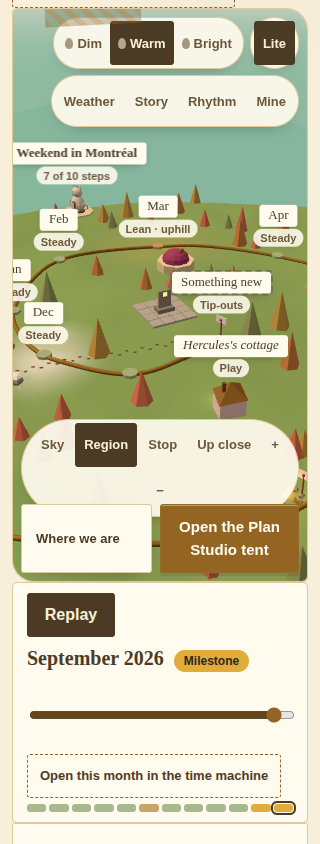
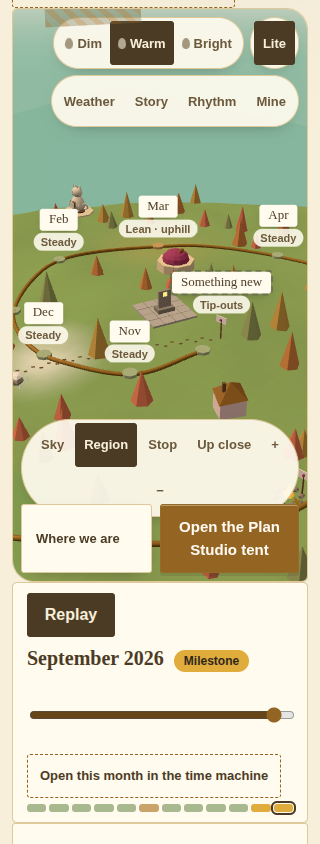
Our Path next level: worksession, AI_HANDOFF entry, and the evidence set re-captured after the light cap
Claude-Session: https://claude.ai/code/session_01US2iRvPXDm4Si5EzbuKmjG

diff --git a/docs/worksessions/2026-09-15-our-path-next-level.md b/docs/worksessions/2026-09-15-our-path-next-level.md
@@ -1,0 +1,128 @@
+# Hearth worksession — Our Path, next level (D-264)
+
+- **Status:** OPEN — local branch complete; awaiting Codex trust review (capability guard; owner-only footpaths on the household island) and Jonathan's merge
+- **Opened:** 2026-09-15 (`America/Toronto`)
+- **Owner:** Jonathan
+- **Assignee or AI:** Claude (orchestrator); Opus sub-agents built and reviewed each slice
+- **Repository:** jonathanbeaulne123-blip/dual-ai-budget-app
+- **Branch:** `claude/our-path-next-level`
+- **Baseline SHA:** `fe0cb3bb` (origin/main, #489; the island itself merged as #488, D-262)
+- **Head SHA:** recorded in the HANDOFF that ships with the bundle
+- **PR or issue:** none yet (delivered as bundle + patch)
+- **Risk:** High — a new per-feature capability flag on the ledger command (sync); owner-only Personal rows drawn on the household surface (privacy); many UI slices
+- **Decision owner:** Jonathan (product); Codex (trust review of `pathWorldVersion` and of the footpaths/bridge privacy rule)
+- **Environment impact:** none (local only; fictional habitat books for every proof and capture)
+
+## Household outcome
+
+The island Jonathan and Bianca see on the household **Our Path** tab is now sturdy on a phone and the rest of the app has come onto it. Two small figures — *us* — walk the path together and their footprints fade behind them. Opening the tent no longer rebuilds the world; it sleeps and wakes. The world rests when idle, and a per-device **Full / Lite** quality setting turns shadows and ambient motion off on modest phones.
+
+Then the app arrived: the **Kitty studio lives inside the landmarks** (pressing a bank opens its own room in the tent; a kiln stands on the island and smokes for a month after a firing; coins arc in when money is set aside and out when a cushion is used). The **campfire is a door to Together** (Jonathan's call today: Together stays its own tab); the fire blazes while a Sitdown is open, settles to embers when it closes and the month's land *sets* with a stone kerb; closed-books months are paved, stamped weeks light lanterns; the **Charter** stands as a stone square; agreed **decisions fork the path**; when both people are on the page the fire crackles brighter. The **Calendar comes as weather**: bills are clouds (big ones storms), paydays are sunrises, covered stretches are sunlit road, and forecast mist has a signpost that says why. **Planner tasks are stepping stones** with owner and backup footprints; a money stone lights only when the books confirm it. **Private footpaths** show only to their owner and **"Share with Our Home" builds a bridge plank by plank**. Every month card opens the **Time Machine**. **Hercules waits at the tent in his saved outfit** and leans toward the pawprints when he has a suggestion; **Play is his cottage**; **memory flags carry the board photos**; and **Home has a window** with the island in miniature and a door to it. The little touches: the bottle in an old cove holds the note from that trip, the island's first winter leaves a frost that never quite melts, and the walkers pause at every campfire they pass.
+
+Nothing on the island moves money. Every action is a link, a tab or the tent. The island reads only accepted household-scope facts, and nobody's words carry an amount (digits and `$` are stripped from any user text before it reaches the land).
+
+## Budget delta (5)
+
++0 to +1. No posting, confirming, reconciling or editing from the island. The island now shows more of what the books already say (bills as weather, paydays, covered stretches, money stones lit by books evidence, Fund cushion signposts) with a door to the real screen every time. `pathWorldVersion` closes the older-client drop for the island's own rows.
+
+## Engagement delta (3)
+
++3. The island is travelled rather than looked at; the couple's Sitdown, Charter, decisions, banks, calendar, tasks, memories and Hercules all live on it; it costs less battery; and it works from the keyboard and without WebGL.
+
+## Verified baseline
+
+- Facts: on `fe0cb3bb`, the island (D-262, #488) had no capability guard, disposed the WebGL context when the tent opened, rendered continuously with ambient motion, and had no axe run. The Fund `asOf` projector split already existed (D-247), contrary to the D-262 worksession's assumption.
+- Facts: five tests fail on the untouched baseline and were re-run on a clean `fe0cb3bb` worktree to prove it: `copy-budget` ×2, `sync-integrity` ×1, `month-spread` ×2 (the last two read copy in `src/KittyBanks.tsx` that #486 changed). None involves a file this branch touches; none is masked.
+
+## Scope
+
+### Part 1 — sturdy (all done)
+
+1. **Trust boundary.** `docs/briefs/OUR_PATH_TRUST_BOUNDARY.md` + `pathWorldVersion` on `LedgerCommand` mirroring D-245's `taskPlannerVersion` through `protocol.ts`, `authority.ts`, `client.ts`, `workers/ledgerRoom.ts` (one flag on the `ready` message; no wrangler/config change). `PATH_WORLD_COMMAND_KINDS` lists the five real registry step kinds (the brief's `updatePathWorld` is only the undo/continuity kind and would never have fired). Flagged for Codex.
+2. **Performance.** `world.sleep()/wake()` across the tent; idle pause after 20 s; `IntersectionObserver` pause when scrolled away; `setQuality("full"|"lite")`; a lost WebGL context bumps a world epoch so the island comes back; point lights capped at a fixed pool of three (Full) or the walkers' lantern only (Lite); `PCFShadowMap` named explicitly (three r185 deprecates the soft map). `docs/evidence/our-path-world/PERFORMANCE.md` — **no real phone was available**; SwiftShader numbers only show that the loop stops.
+3. **Journey object.** `src/path/walk.ts` + the walkers in the world; the "We are here" mark rides on them; flat-map glyph.
+4. **Fund-balance elevation.** Plan only: `docs/briefs/OUR_PATH_FUND_ELEVATION_PLAN.md` (a `cushion` score, never cents; the money-meaning question on `fundLensToday` stays Jonathan's).
+5. **Accessibility.** axe 4.13 × three themes × 390/1100 × live / no-WebGL / reduced motion: 42 serious nodes (Taylor contrast, two touch targets) → **0**. Escape closes the card; focus moves into it from the keyboard; one `:focus-visible` rule for every control; marks never sit under controls, the open card, or off the stage edge; a jsdom test proves every place the world receives has a mark and an outline row. `docs/evidence/our-path-world/A11Y.md`.
+
+### Part 2 — the app on the island
+
+Built: steps 1–11 as described above (order followed Jonathan's answer: Kitty studio first, then the Together campfire as a door). Step 12 (personal island) is a privacy review only: `docs/briefs/OUR_PATH_PERSONAL_ISLAND_PRIVACY_REVIEW.md` (recommendation: derived-only v1, a door from the Personal Home, no new store).
+
+New pure read-models in `src/core/`: `pathWeather.ts`, `pathStones.ts`, `pathLand.ts`, `pathFootpaths.ts`, `pathBridges.ts`, `pathWords.ts`. New `src/path/`: `walk.ts`, `landmarks.ts`, `together.ts`, `bottle.ts`, `memoryPhotos.ts`, `PathMiniMap.tsx`. New `src/boardMedia/householdBoardMedia.tsx`. Small hooks outside the island: `TimeMachine` `initialPeriod`; `PlanStudio` `section: "bridge"` source focus; `KittyBankRoom` follows a repeated landmark request; `HouseholdLife.acceptedPlan` exported; `QueenHome` window; `HerculesNumberSource.section`.
+
+### Out of scope / stayed off the island
+
+Add/Confirm, Books and register, reconciliation, Fund position (the Standing Book stays a book — the island only has an "Open the Fund" door), Work/shifts, settings. Fund-balance elevation and the personal island are plans. Production, schema, Auth, the `hearth-books` Worker config and the Personal Plan tab are untouched.
+
+## Acceptance evidence
+
+- [x] `pathWorldVersion` carried, refused when ≠ 1, old client refused once rows exist or a Path step is sent, money command from an old client still posts while no rows exist (`test/our-path-world.test.ts`)
+- [x] Tent round trip creates no second world; sleep/wake; quality persists per device; a lost context rebuilds (`test/our-path-world-ui.test.ts`)
+- [x] Walkers: flat glyph moves with the slider; `walkPath` deterministic and reversible
+- [x] Weather/stones/land/footpaths/bridges/words read-models: 8 + 7 + 4 + 6 + 5 + 5 tests, fictional data, personal rows excluded, no amounts in copy, partner render shows nothing private
+- [x] Landmark opens its own bank in the tent; kiln warm/cold; step per shown month; story line
+- [x] "Sit down together" → Together; Charter square signed/waiting; forks → agreement line in the tent; Sitdown open/closed → fire state and set land; presence count
+- [x] Month card → Time Machine at that month; cottage → Play; Hercules `aria-hidden` at the tent; board photo on a flag; Home window door
+- [x] Every place reachable from marks and outline; Escape/focus; axe 0 × 12 runs
+- [x] Browser evidence: `docs/evidence/our-path-world/next-level/` — classic, taylor, newfoundland × 320/390/720/1100/1440, plus hard-story Stop with a card, reduced motion, no-WebGL flat map, outline, tent, empty household (21 captures, `INDEX.md`): zero page errors, no horizontal overflow; one favicon 404 on the first page. Slice captures (`journey-*`, `kitty-*`, `together-*`, `weather-*`, `stones-*`, `controls-*`, `guide-*`, `footpaths-*`, `bridge-*`) in the same folder.
+
+## Evidence log
+
+- Quick gate on the integrated branch: `pnpm test -- --risk=high --focus=test/our-path-world-ui.test.ts --focus=test/our-path-world.test.ts` → 640 of 642 pass (229.8 s of 300 s, no budget breach); the two failures are `month-spread` ×2, pre-existing on `fe0cb3bb`. Every slice's own gate is recorded in the orchestration log below; the guard, perf, journey, weather-core, Kitty, stones/land and Together slices each reported `quick-gate-passed`; later slices report `quick-gate-failed` solely on the baseline `month-spread` pair once the gate's selection started including it.
+- `pnpm exec tsc --noEmit` clean after every merge.
+- The island suites at head: `our-path-world-ui` 35, `our-path-world` 20, `path-weather` 8, `path-stones` 7, `path-land` 4, `path-footpaths` 6, `path-bridges` 5, `path-words` 5, `path-minimap` 4, `time-machine-ui` 8, `plan-life-ui` 4, `queens-nest-ui` 24, `planner-tasks` 8, `app-startup-p1` 82 (D-183 Bianca regression) — all green.
+
+## Orchestration log (who built and reviewed what, and what changed after review)
+
+| Slice | Built by | Reviewed by | Changed after review |
+|---|---|---|---|
+| 1a guard | Opus builder (`slice/path-guard`) | Opus read-only reviewer | doc comment re-attached; `hasPathWorldData` short-circuit; no-rows money-command test; trust-note wording |
+| 1b perf | Opus builder (`slice/path-perf`) | same reviewer | rebuild after lost context (`worldEpoch`); `PCFShadowMap` |
+| 1c journey | Opus builder (`slice/path-journey`) | — (covered by later reviews) | walkers pause at campfires (built later) |
+| 1d elevation plan | Opus planner (read-only) | — | written to `docs/briefs/` |
+| 4-core weather | Opus builder (`slice/path-weather-core`) | later reviewer | — |
+| 2 Kitty | Opus builder (`slice/path-kitty`) | Opus Part-2 reviewer | kiln piece renamed "A kiln hut"; behaviour test; repeated landmark request |
+| 5/10 core stones + land | Opus builder (`slice/path-core-stones-land`) | Part-2 reviewer | stones' evidence filtered to the shared ledger |
+| 1 Together + 10 land | Opus builder (`slice/path-together`) | Part-2 reviewer | forks/decision words stripped of digits |
+| 4 weather + 5 stones + touches | Opus builder (`slice/path-weather-stones`) | Part-2 reviewer | — |
+| 7/8/9/11 guide | Opus builder (`slice/path-guide`) | Part-2 reviewer | `initialPeriod` applied once; scene no longer rebuilds per App render; stale tent focus cleared |
+| 6 footpaths + bridge | Opus builder (`slice/path-footpaths`) | Part-2 reviewer | Mine key per member; private marks never at Dim; D-264 entry; privacy-review addendum; `section: "bridge"` |
+| 12 privacy review | Opus writer (read-only) | — | — |
+| 1e a11y + evidence | Opus builder (`slice/path-a11y`) | — | — |
+| review fixes | Opus builder (`slice/path-review-fixes`) | — | orchestrator: Hercules sizes with the camera; labels never hang off the stage edge |
+
+The orchestrator merged every slice in order onto `claude/our-path-next-level`, re-ran `tsc` and the island suites after each merge, and ran the High quick gate on the integrated branch.
+
+## Decisions
+
+- Jonathan, 2026-09-15: the Together tab stays its own tab; the campfire on the island is a door to it. Step 2 starts with the Kitty studio, then the Together campfire.
+- Recorded as D-264 (with a numbering note: the island's founding decision keeps the D-262 heading; the table's D-262 row is the cellar kitty jars and D-263 the loft rack).
+
+## One step further
+
+Built in this branch: walkers pause at campfires; the bottle holds the trip's note; the first frost; the fire crackles brighter when both are here; Hercules leans toward the pawprints; the compact "Lite" toggle on phones; flat-map kerbs and stamps; stones' footprints for owner and backup.
+
+Parked, each with the smallest next step:
+
+1. **A lit money stone clears its cloud.** When the books confirm a bill's task, fade the matching cloud and lay a sunlit ribbon under the stone. Smallest step: `src/path/clearedClouds.ts` returning `bill:*` ids whose linked task is lit; the page marks those clouds `cleared`.
+2. **"You have a plank to share."** When `pathBridges` has a stage-1 draft for this month, add that line to the tent mark's sub. Uses data the page already has.
+3. **Hercules walks the pawprints.** When a `?` signpost card opens, move the DOM Hercules to that anchor (no movement under reduced motion). ~10 lines in `applyAnchors` plus one test.
+4. **The landmark tells every firing.** `kittyFiringStory(studio)` → up to three `{ date, glaze }` for the Bright-lantern line.
+5. **Fund-balance elevation.** Sequence in `OUR_PATH_FUND_ELEVATION_PLAN.md`: Jonathan's two answers → `fundBalanceSeries` PR + Codex review → the `cushion` score and the plinth rise.
+6. **Personal island (derived-only).** After the shared island lands: a door from the Personal Home, base recipes read-only, Dim by default, its own lantern key.
+7. **Board photo crops.** Honour `crop` on the flag texture instead of centre-cropping.
+8. **Flat map parity.** Pass the same avoid list to `charterSpot` in `PathMiniMap` so the square sits where the 3D one does.
+
+## Remaining uncertainty
+
+- **Codex trust review needed** for (a) `pathWorldVersion` — the app and Worker deploy together from `main`, so a new app never meets an old Worker in the ordinary chain, but a stale tab on a D-262-era build is refused with `CLIENT_RELOAD_REQUIRED` once island rows exist (same as the planner guard); (b) owner-only footpaths and stage-1 planks on the household island — derived on the device from the owner's own Personal rows, nothing synced, never at Dim, Mine key per member; the partner-render test proves nothing crosses devices, but the shared-screen glance risk is a product call.
+- **No real device.** Frame rate and battery were not measured; SwiftShader only proves the loop stops and the capture set has no page errors.
+- **`mergeShared`** still trusts full-snapshot input, as for every Shared collection.
+- `pathWeather`: when a bill exceeds the Fund balance the horizon refuses (`baseline-untied`), so the island shows "No forecast yet" rather than mist; dropping personal rows makes storm shares read against a smaller total.
+- The tent has no card, so "Hercules has a suggestion" lives on the tent mark's sub and the campfire card.
+- "Open my planner" on a footpath reuses the household planner link.
+- Screen readers were not heard (no VoiceOver/NVDA run).
+
+## Handoff
+
+Local branch only, delivered as bundle + patch + HANDOFF. Not pushed, not a PR, not merged, not deployed, not live-verified. Next owner: Codex for the two trust reviews, then Jonathan to merge through the usual delivery chain, then a real-phone pass on Full and Lite.

diff --git a/docs/AI_HANDOFF.md b/docs/AI_HANDOFF.md
@@ -1,3 +1,17 @@
+## Our Path, next level — sturdy island, then the app comes onto it (2026-09-15, D-264)
+
+Branch `claude/our-path-next-level` on `origin/main@fe0cb3bb` (#489), delivered as a bundle and a patch. **Risk: High** — a new per-feature capability flag on the ledger command (`pathWorldVersion`, mirroring D-245), and owner-only Personal rows (footpaths, private bridge planks) drawn on the household surface. Jonathan's two calls today: the Together tab stays its own tab and the campfire is a door to it; step 2 started with the Kitty studio. Budget (5): +0/+1 — nothing posts; the island gains doors to the Fund, Calendar, planner, Together, Charter, Time Machine, Play and the Kitty room. Engagement (3): +3. Details, orchestration log, evidence and every "one step further" idea: [the worksession](worksessions/2026-09-15-our-path-next-level.md).
+
+**Examined:** the D-262 island (`src/path/**`, `src/core/pathWorld.ts`, `pathSignals.ts`), the D-245 guard chain (`protocol`, `authority`, `client`, `workers/ledgerRoom`), Fund projector (`householdFund.ts`, D-247), `KittyBankRoom`/`PlanStudio` source focus, `HouseholdTogether`, `sitDown.ts`/`planHerculesSessions`, `charter.ts`, `softPresence`, `monthObligations`/`fundHorizon`/`monthSpread` paydays, `tasks.ts`/`agenda.ts` evidence, `closedMonths`/`weeklyDocumentStamps`, `planBridge*`, `boardMedia`, `TimeMachine`, `QueenHome`.
+
+**Changes (one commit per slice, merged in order):** `pathWorldVersion` guard + `docs/briefs/OUR_PATH_TRUST_BOUNDARY.md`; world sleeps through the tent, idle/offscreen pause, Full/Lite tier, light cap, lost-context rebuild; the walkers (`src/path/walk.ts`); pure read-models `src/core/pathWeather.ts`, `pathStones.ts`, `pathLand.ts`, `pathFootpaths.ts`, `pathBridges.ts`, `pathWords.ts`; Kitty studio in the landmarks (kiln, coins, deep link via `pathTentFocus`); Together on the island (Sitdown-aware fire, Charter square, decision forks, set land, both-present crackle); Calendar weather; stepping stones; bottle note; first frost; Hercules at the tent in his outfit + Play cottage; board photos on memory flags; Time Machine door (`initialPeriod`); Home window (`PathMiniMap`); private footpaths and bridges; accessibility pass; review fixes. Plans only: `docs/briefs/OUR_PATH_FUND_ELEVATION_PLAN.md`, `docs/briefs/OUR_PATH_PERSONAL_ISLAND_PRIVACY_REVIEW.md`.
+
+**Verification:** `tsc` clean after every merge. Integrated High quick gate: 640 of 642 (229.8 s / 300 s), the two failures being `month-spread` ×2 — pre-existing on a clean `fe0cb3bb` worktree together with `copy-budget` ×2 and `sync-integrity` ×1; none masked. Island suites green (35 + 20 UI/core, 8/7/4/6/5/5 read-models, 4 minimap, 8 time-machine, 4 plan-life, 24 queens-nest, 82 app-startup-p1 D-183). axe 4.13 × 12 states: 42 serious → 0. 21 captures in `docs/evidence/our-path-world/next-level/` (three themes × 320/390/720/1100/1440, hard-story card, reduced motion, no-WebGL, outline, tent, empty): zero page errors, no overflow. Real phone: **not available** (SwiftShader only).
+
+**Uncertainty:** Codex trust review needed for the guard and for the owner-only marks on the household island; `mergeShared` still trusts full snapshots; the Fund horizon refuses (not mists) when a bill exceeds the balance; screen readers not heard.
+
+**Environment:** fictional habitat books only; nothing hosted. **State:** not pushed, not a PR, not merged, not deployed, not live-verified. **Next owner:** Codex (two trust reviews), then Jonathan to merge and try it on his phone on Full and Lite.
+
 ## The Queen is Jonathan's Mandevilla Queen model (2026-09-15)
 
 Merged as #492 (D-266). Follow-up branch `claude/queen-bank-models`, one commit on `origin/main@9f18b95` (#492) (D-267): Home's Protect bank stands as Jonathan's Mandevilla Guardian and Build as the Mandevilla Mastermind, with the same never-alter rule and a silent fallback to the studio cats. Not pushed, not merged, not deployed. **Risk: Medium-Low.** Presentation only, behind `VITE_QUEENS_NEST`; one new static asset (3.2 MB, 2.4 MB gzipped) loaded by the Home 3D world.
